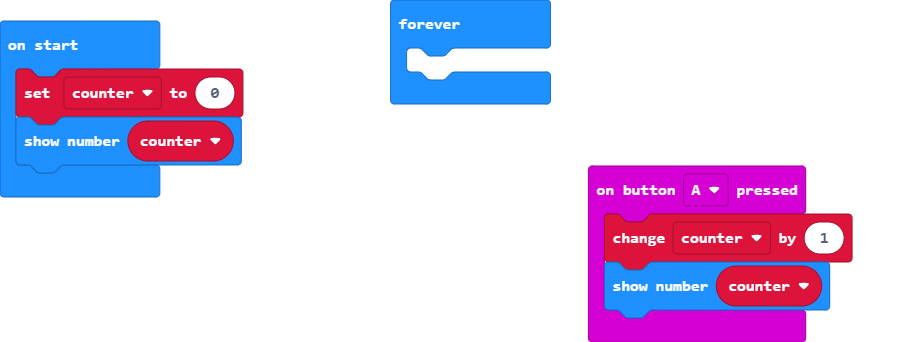
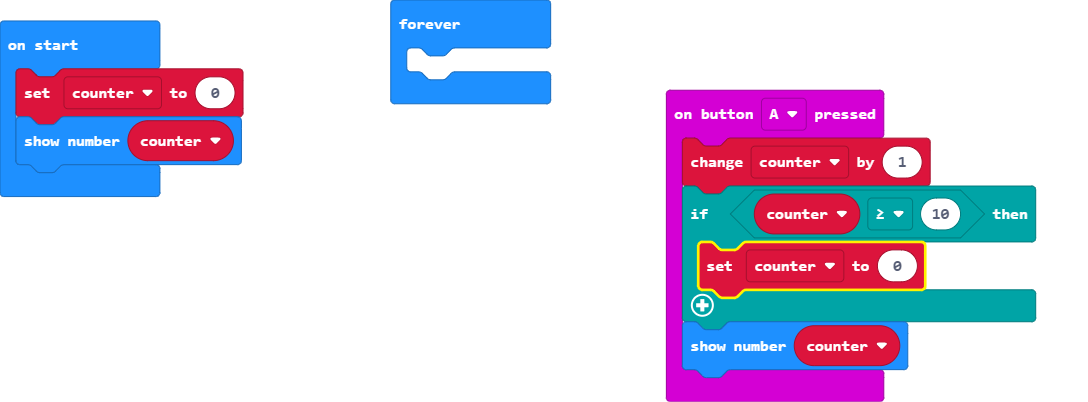
now added check for counter

diff --git a/main.ts b/main.ts
@@ -1,5 +1,8 @@
 input.onButtonPressed(Button.A, function () {
     counter += 1
+    if (counter >= 10) {
+        counter = 0
+    }
     basic.showNumber(counter)
 })
 let counter = 0
